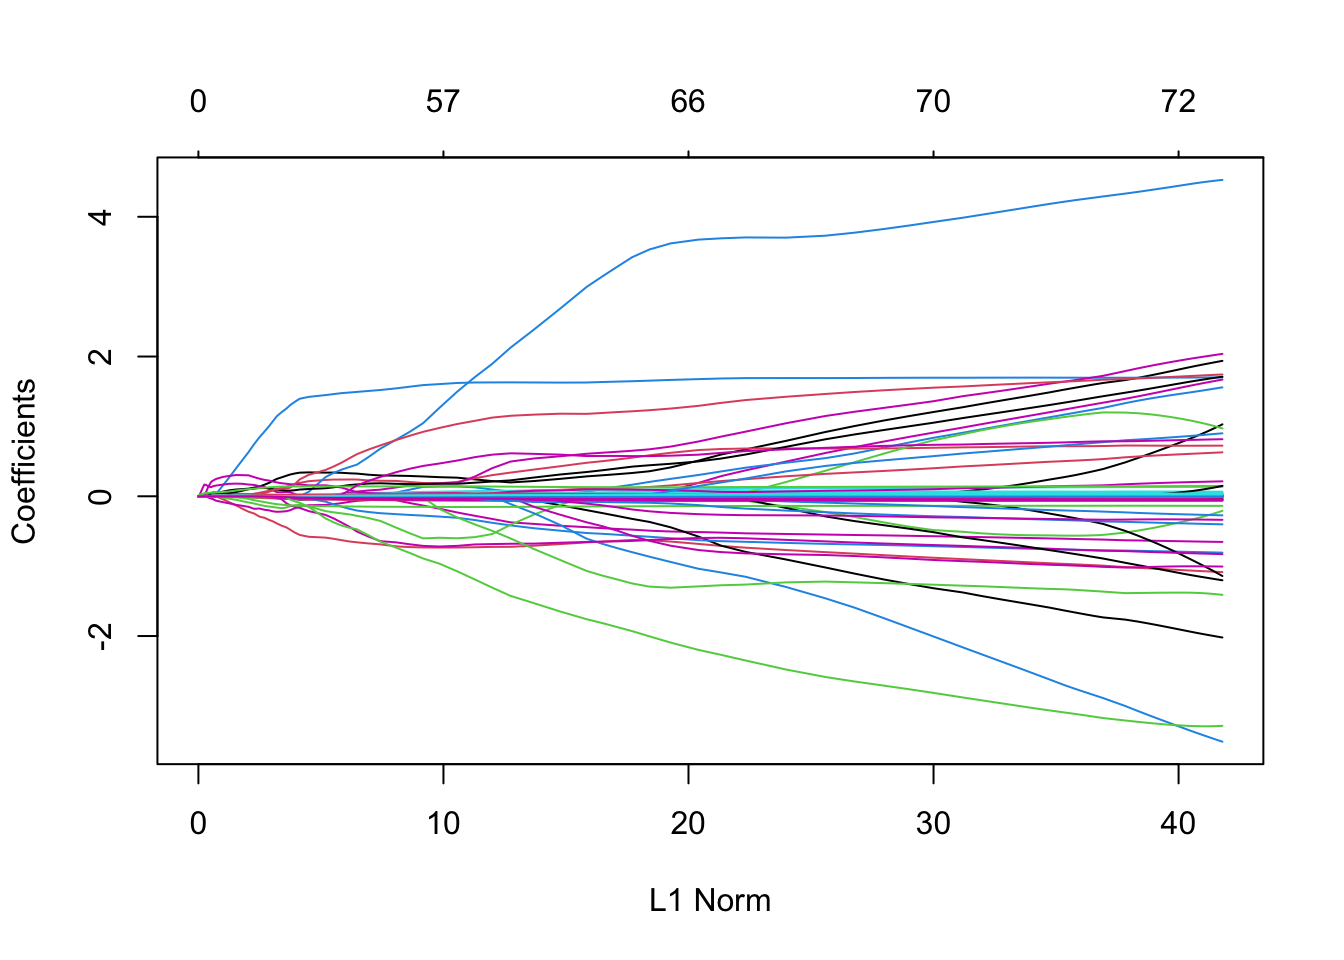
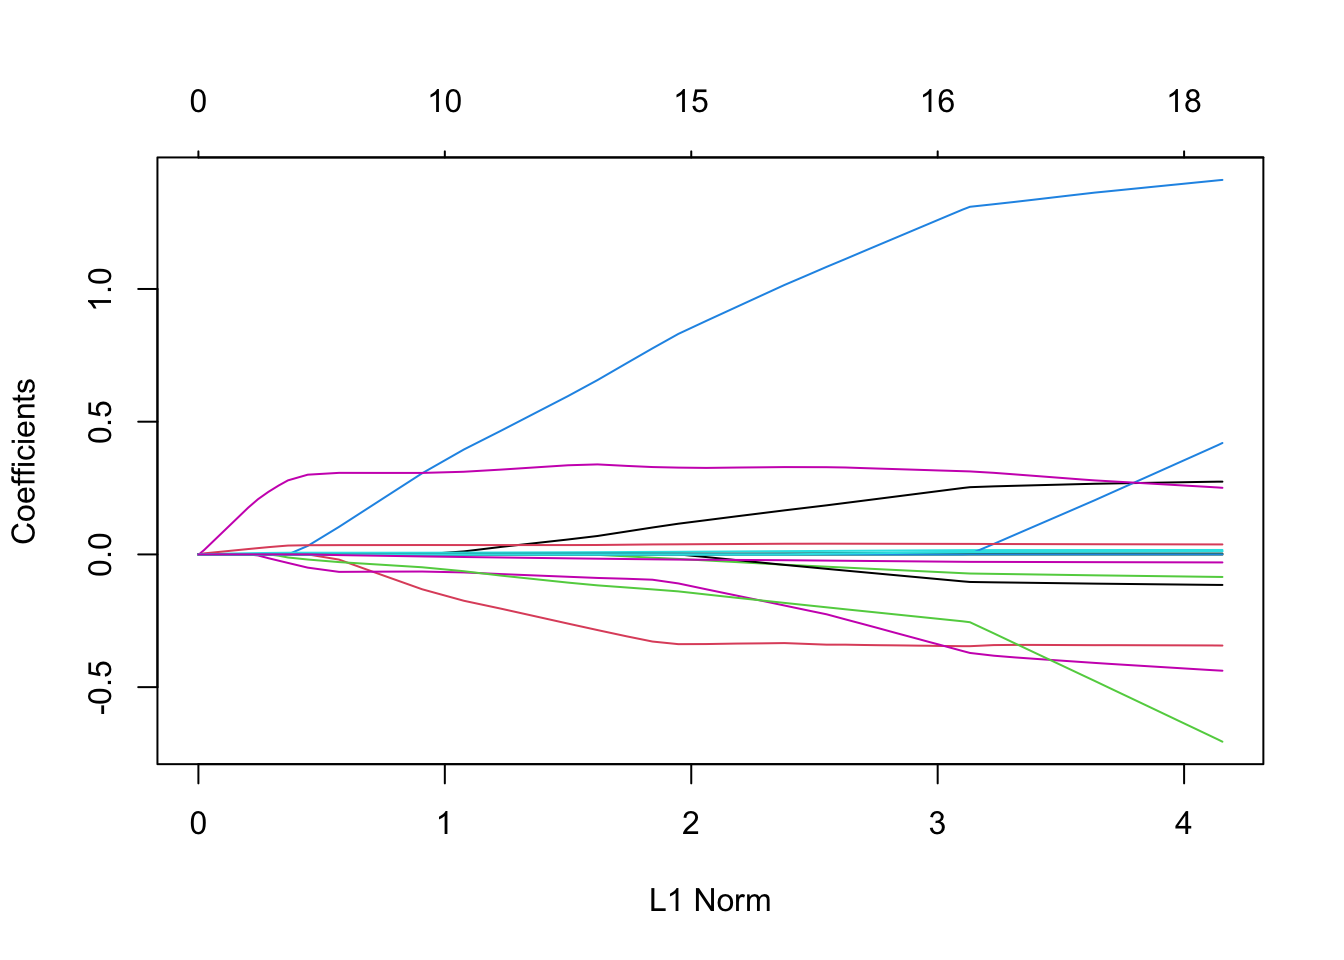
prova

diff --git a/README.md b/README.md
@@ -20,52 +20,33 @@ overlapping group lasso penalties.
 The following functions are implemented:
 
 - `geom_ubar` : Uniform width bar charts
-
 - `geom_horizon` : Horizon charts (modified from
   <https://github.com/AtherEnergy/ggTimeSeries>)
-
 - `coord_proj` : Like `coord_map`, only better (prbly shld use this with
   `geom_cartogram` as `geom_map`’s new defaults are ugh)
-
 - `geom_xspline` : Connect control points/observations with an X-spline
-
 - `stat_xspline` : Connect control points/observations with an X-spline
-
 - `geom_bkde` : Display a smooth density estimate (uses
   `KernSmooth::bkde`)
-
 - `geom_stateface`: Use ProPublica’s StateFace font in ggplot2 plots
-
 - `geom_bkde2d` : Contours from a 2d density estimate. (uses
   `KernSmooth::bkde2D`)
-
 - `stat_bkde` : Display a smooth density estimate (uses
   `KernSmooth::bkde`)
-
 - `stat_bkde2d` : Contours from a 2d density estimate. (uses
   `KernSmooth::bkde2D`)
-
 - `stat_ash` : Compute and display a univariate averaged shifted
   histogram (polynomial kernel) (uses `ash::ash1`/`ash::bin1`)
-
 - `geom_encircle`: Automatically enclose points in a polygon
-
 - `byte_format`: + helpers. e.g. turn `10000` into `10 Kb`
-
 - `geom_lollipop()`: Dead easy lollipops (horizontal or vertical)
-
 - `geom_dumbbell()` : Dead easy dumbbell plots
-
 - `stat_stepribbon()` : Step ribbons
-
 - `annotation_ticks()` : Add minor ticks to identity, exp(1) and exp(10)
   axis scales independently of each other.
-
 - `geom_spikelines()` : Instead of geom_vline and geom_hline a pair of
   segments that originate from same c(x,y) are drawn to the respective
   axes.
-
-- plotly integration for a few of the ^^ geoms
 
 ### Required libraries
 
@@ -73,6 +54,10 @@ The following functions are implemented:
 library(glmnet)
 ## Loading required package: Matrix
 ## Loaded glmnet 4.1-8
+```
+
+``` r
+library(leaps)
 ```
 
 ### Installation
@@ -156,7 +141,7 @@ summary(ret.lm1)
 
 ``` r
 # Fit whole solution path for illustration
-fit <- glmnet(x = as.matrix(X), y = y, standardize = TRUE, nlambda = 100)
+fit <- glmnet(x = as.matrix(X)[,1:18], y = y, standardize = TRUE, nlambda = 100)
 plot(fit)
 ```
 
@@ -166,89 +151,13 @@ plot(fit)
 
 # Perform tenfold cross-validation
 set.seed(42)
-fit.cv <- cv.glmnet(x = as.matrix(X), y = y, standardize = TRUE, nlambda = 100, alpha = 0.5)
+fit.cv <- cv.glmnet(x = as.matrix(X)[,1:18], y = y, standardize = TRUE, 
+                    nlambda = 100, alpha = 0.5)
 
 # fit with best lambda
-fit <- glmnet(x = as.matrix(X), y = y, standardize = TRUE, lambda = fit.cv$lambda.min)
+fit <- glmnet(x = as.matrix(X), y = y, standardize = TRUE, 
+              lambda = fit.cv$lambda.min)
 b   <- as.matrix(coef(fit))
-b
-##                     s0
-## (Intercept) 0.02544468
-## UNRATE_l1   0.00000000
-## EC_l1       0.00000000
-## PRFI_l1     0.00000000
-## GDPC1_l1    0.00000000
-## HOUST_l1    0.00000000
-## USPRIV_l1   0.00000000
-## TB3MS_l1    0.00000000
-## GS10_l1     0.00000000
-## T10Y3MM_l1  0.00000000
-## T10YFFM_l1  0.00000000
-## M1SL_l1     0.00000000
-## MICH_l1     0.00000000
-## PPIACO_l1   0.00000000
-## DJIA_l1     0.00000000
-## NAPMPMI_l1  0.00000000
-## NAPMSDI_l1  0.00000000
-## OILPRICE_l1 0.00000000
-## GASPRICE_l1 0.00000000
-## UNRATE_l2   0.00000000
-## EC_l2       0.00000000
-## PRFI_l2     0.00000000
-## GDPC1_l2    0.00000000
-## HOUST_l2    0.00000000
-## USPRIV_l2   0.00000000
-## TB3MS_l2    0.00000000
-## GS10_l2     0.00000000
-## T10Y3MM_l2  0.00000000
-## T10YFFM_l2  0.00000000
-## M1SL_l2     0.00000000
-## MICH_l2     0.00000000
-## PPIACO_l2   0.00000000
-## DJIA_l2     0.00000000
-## NAPMPMI_l2  0.00000000
-## NAPMSDI_l2  0.00000000
-## OILPRICE_l2 0.00000000
-## GASPRICE_l2 0.00000000
-## UNRATE_l3   0.00000000
-## EC_l3       0.00000000
-## PRFI_l3     0.00000000
-## GDPC1_l3    0.00000000
-## HOUST_l3    0.00000000
-## USPRIV_l3   0.00000000
-## TB3MS_l3    0.00000000
-## GS10_l3     0.00000000
-## T10Y3MM_l3  0.00000000
-## T10YFFM_l3  0.00000000
-## M1SL_l3     0.00000000
-## MICH_l3     0.00000000
-## PPIACO_l3   0.00000000
-## DJIA_l3     0.00000000
-## NAPMPMI_l3  0.00000000
-## NAPMSDI_l3  0.00000000
-## OILPRICE_l3 0.00000000
-## GASPRICE_l3 0.00000000
-## UNRATE_l4   0.00000000
-## EC_l4       0.00000000
-## PRFI_l4     0.00000000
-## GDPC1_l4    0.00000000
-## HOUST_l4    0.00000000
-## USPRIV_l4   0.00000000
-## TB3MS_l4    0.00000000
-## GS10_l4     0.00000000
-## T10Y3MM_l4  0.00000000
-## T10YFFM_l4  0.00000000
-## M1SL_l4     0.00000000
-## MICH_l4     0.00000000
-## PPIACO_l4   0.00000000
-## DJIA_l4     0.00000000
-## NAPMPMI_l4  0.00000000
-## NAPMSDI_l4  0.00000000
-## OILPRICE_l4 0.00000000
-## GASPRICE_l4 0.00000000
-```
-
-``` r
 
 # Visualize cross-validation error-path
 plot(fit.cv)
@@ -268,3 +177,72 @@ rownames(b)[b != 0]
 ## By default, the selected variables are based on the largest value of
 ## lambda such that the cv-error is within 1 standard error of the minimum
 ```
+
+``` r
+# best subset
+lm.subset <- regsubsets(x = X.std[,2:19], y = y.std, 
+                        method = "exhaustive", nvmax = 8)
+summary(lm.subset)
+## Subset selection object
+## 18 Variables  (and intercept)
+##             Forced in Forced out
+## UNRATE_l1       FALSE      FALSE
+## EC_l1           FALSE      FALSE
+## PRFI_l1         FALSE      FALSE
+## GDPC1_l1        FALSE      FALSE
+## HOUST_l1        FALSE      FALSE
+## USPRIV_l1       FALSE      FALSE
+## TB3MS_l1        FALSE      FALSE
+## GS10_l1         FALSE      FALSE
+## T10Y3MM_l1      FALSE      FALSE
+## T10YFFM_l1      FALSE      FALSE
+## M1SL_l1         FALSE      FALSE
+## MICH_l1         FALSE      FALSE
+## PPIACO_l1       FALSE      FALSE
+## DJIA_l1         FALSE      FALSE
+## NAPMPMI_l1      FALSE      FALSE
+## NAPMSDI_l1      FALSE      FALSE
+## OILPRICE_l1     FALSE      FALSE
+## GASPRICE_l1     FALSE      FALSE
+## 1 subsets of each size up to 8
+## Selection Algorithm: exhaustive
+##          UNRATE_l1 EC_l1 PRFI_l1 GDPC1_l1 HOUST_l1 USPRIV_l1 TB3MS_l1 GS10_l1 T10Y3MM_l1 T10YFFM_l1 M1SL_l1 MICH_l1
+## 1  ( 1 ) " "       " "   " "     " "      " "      " "       " "      " "     " "        " "        " "     " "    
+## 2  ( 1 ) " "       " "   " "     " "      " "      " "       " "      " "     " "        " "        " "     " "    
+## 3  ( 1 ) " "       "*"   " "     "*"      " "      " "       " "      " "     " "        " "        " "     " "    
+## 4  ( 1 ) " "       "*"   " "     "*"      " "      " "       " "      " "     " "        " "        " "     " "    
+## 5  ( 1 ) " "       "*"   " "     "*"      " "      " "       " "      " "     "*"        " "        " "     " "    
+## 6  ( 1 ) " "       "*"   " "     "*"      "*"      " "       " "      " "     "*"        " "        " "     " "    
+## 7  ( 1 ) " "       "*"   "*"     "*"      "*"      " "       " "      " "     " "        " "        " "     " "    
+## 8  ( 1 ) " "       "*"   "*"     "*"      "*"      " "       " "      " "     " "        " "        " "     " "    
+##          PPIACO_l1 DJIA_l1 NAPMPMI_l1 NAPMSDI_l1 OILPRICE_l1 GASPRICE_l1
+## 1  ( 1 ) "*"       " "     " "        " "        " "         " "        
+## 2  ( 1 ) "*"       " "     " "        " "        " "         "*"        
+## 3  ( 1 ) "*"       " "     " "        " "        " "         " "        
+## 4  ( 1 ) "*"       " "     " "        " "        " "         "*"        
+## 5  ( 1 ) "*"       " "     " "        " "        " "         "*"        
+## 6  ( 1 ) "*"       " "     " "        " "        " "         "*"        
+## 7  ( 1 ) "*"       "*"     " "        " "        " "         "*"        
+## 8  ( 1 ) "*"       "*"     "*"        " "        " "         "*"
+```
+
+``` r
+bic <- summary(lm.subset)$bic
+rss <- summary(lm.subset)$rss
+cp  <- summary(lm.subset)$cp
+
+# define the optimal model using BIC and run LM
+idx <- which(summary(lm.subset)$which[which.min(bic),] == TRUE)
+coef(lm(y.std ~ X.std[,idx]-1))
+##   X.std[, idx]intercept       X.std[, idx]EC_l1    X.std[, idx]GDPC1_l1   X.std[, idx]PPIACO_l1 X.std[, idx]GASPRICE_l1 
+##            3.786142e-16           -6.958761e-01            6.777184e-01            7.424334e-01           -4.390489e-01
+```
+
+``` r
+
+# plot
+plot(1:8, bic, col = "red", ylim = c(-17, 15), type = "l", lwd = 1.2)
+lines(1:8, cp, col = "blue",  lwd = 1.2)
+```
+
+<img src="README_figs/README-unnamed-chunk-8-1.png" width="672" />
